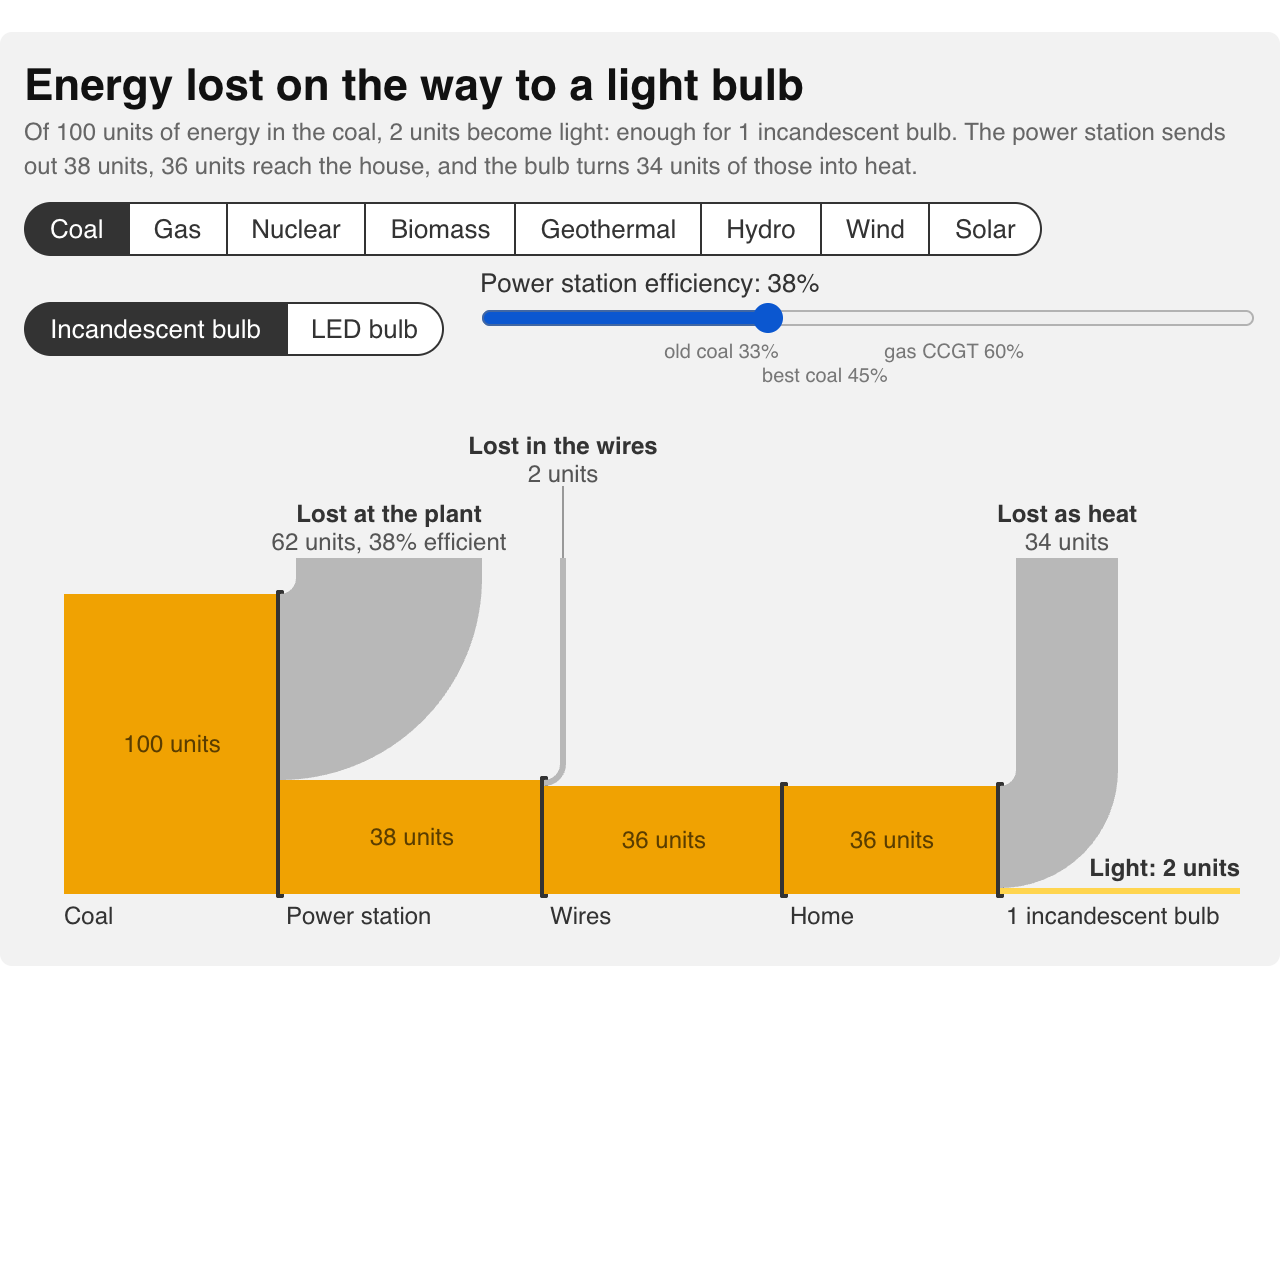
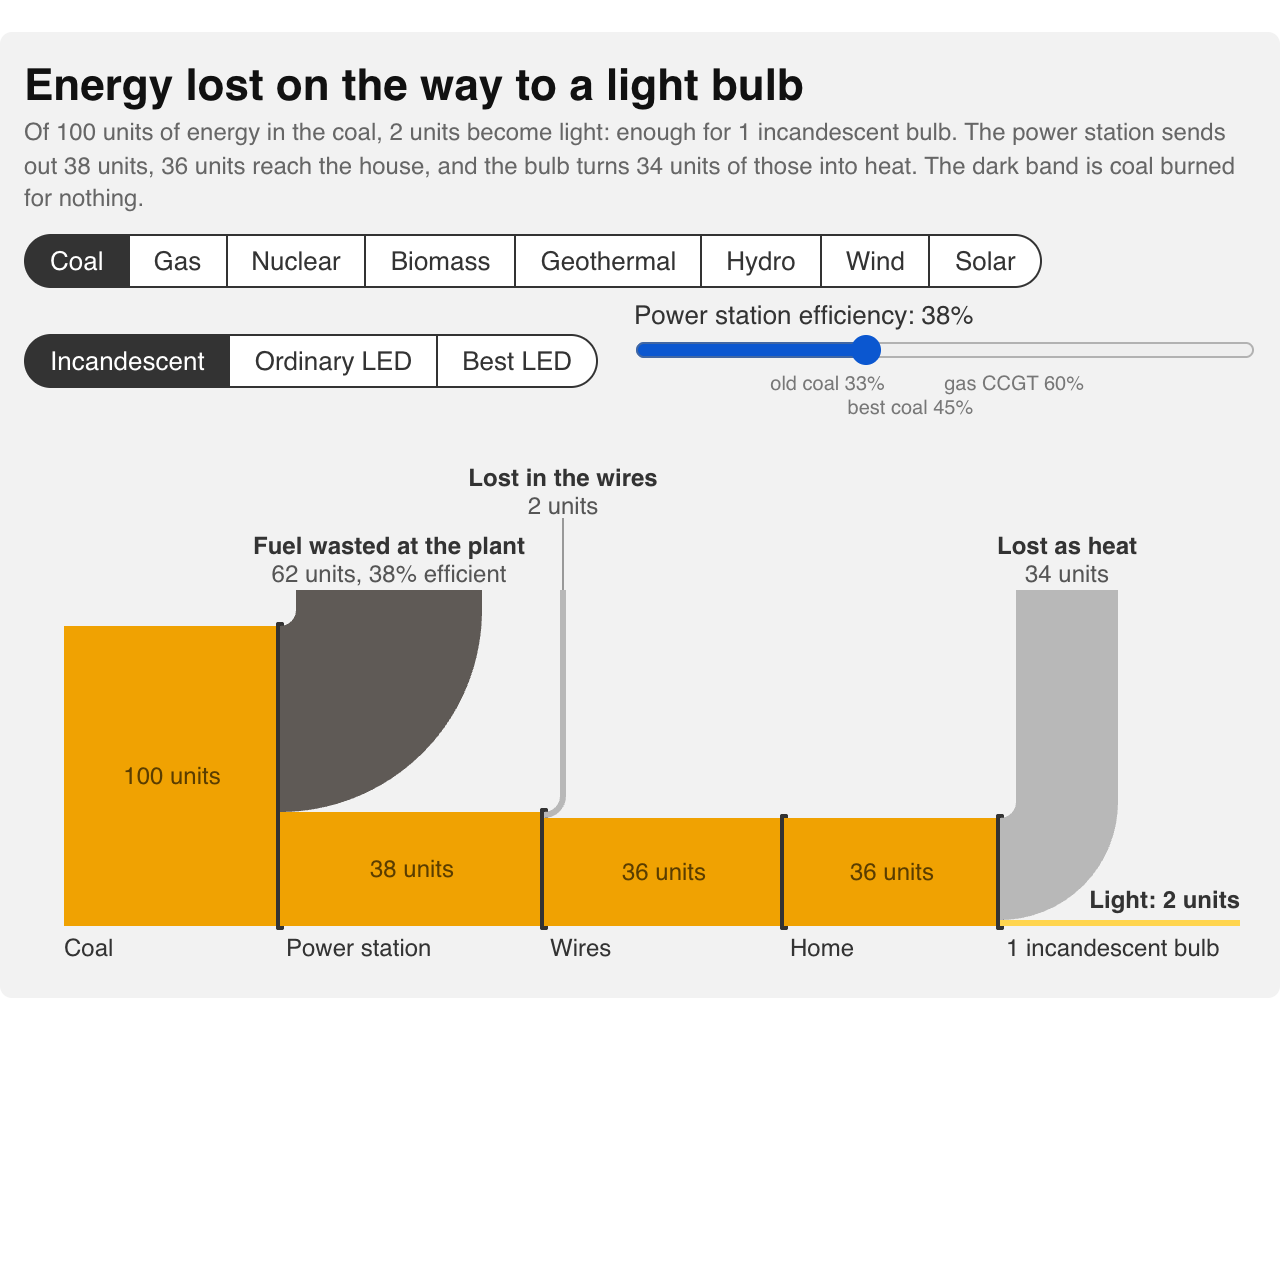
Energy chain: an ordinary LED between the incandescent and the best, and the plant's loss coloured by what it costs
Three bulbs: the incandescent (36 units for 2 of light), an ordinary LED (6, the
course's own figure, about 85 lm/W) and the best LED sold (2.4, about 210 lm/W).
The plant's loss is sooty when it is coal, gas, biomass or nuclear fuel burned for
nothing, and pale with a dashed edge when it is sunlight, wind, water or ground
heat that simply passes by; the wires' and bulbs' heat stay grey. At narrow widths
the loss labels are haloed above the leaders and a station name that would run
into its neighbour drops to a second row.

diff --git a/src/energy-chain/widget.js b/src/energy-chain/widget.js
@@ -1,21 +1,24 @@
 // The energy chain from a lump of coal to lit bulbs, as a Sankey: 100 units of energy enter at
 // the power station, most leave as heat up the cooling tower, a little more warms the wires,
 // and what reaches the house goes into as many bulbs as it can light, which turn most of it
-// into heat too. Two bulbs: an incandescent one, which draws 36 units to make 2 of light, so
-// the 36 delivered light one bulb, and an LED, which draws 2.4 for the same light, so they
-// light fifteen and give 30 units of light; the switch between them animates, since the
-// growing light from the same coal is the point. A slider sets the power station's efficiency, from an old coal plant to
+// into heat too. Three bulbs: an incandescent one, which draws 36 units to make 2 of light, so
+// the 36 delivered light one bulb; an ordinary LED, which draws 6 for the same light, so they
+// light six and give 12 units of light; and the best LED sold, which draws 2.4, so they light
+// fifteen and give 30; the switch between them animates, since the growing light from the same
+// coal is the point. A slider sets the power station's efficiency, from an old coal plant to
 // a gas combined-cycle one, and the first link of the chain moves with it; a row of sources
 // (coal, gas, nuclear, biomass, geothermal, hydro, wind, solar) sets it to each one's typical
 // efficiency and renames the plant, so the same chain can start from wind through a rotor or
-// sunlight on a panel, where what is not captured is not burned. Drawn in the style
+// sunlight on a panel. The plant's loss is coloured by what it costs: sooty when it is fuel
+// burned for nothing, pale and outlined when it is sunlight, wind or water that simply passes
+// by; the wires' and bulbs' heat, electricity wasted, is the grey between. Drawn in the style
 // of the Hickman and climate-funds widgets: a grey plate, a bold title in the corner, dark
 // pill buttons. Static numbers, the course's own; no data file. Self-contained: no d3, no
 // imports.
 //
 // Options: {source: "coal" | "gas" | "nuclear" | "biomass" | "geothermal" | "hydro" | "wind" |
-// "solar"}, {bulb: "incandescent" | "led"}, {efficiency: 0.38} (the plant's, overriding the
-// source's typical figure); {width} caps the figure's width.
+// "solar"}, {bulb: "incandescent" | "led" | "best-led"}, {efficiency: 0.38} (the plant's,
+// overriding the source's typical figure); {width} caps the figure's width.
 
 const CARD_WIDTH = 640;
 const CARD_PAD = 12;
@@ -26,17 +29,25 @@ const ACCENT = "#0b57d0";
 const SOURCE = 100;                 // units of energy in the coal
 const DEFAULT_EFFICIENCY = 0.38;    // the course figure: 62 of 100 lost at the station
 const LINE_LOSS_SHARE = 2 / 38;     // the course figure: 2 of the 38 units sent out
-const FLOW = "#f0a202", LOSS = "#b8b8b8", LIGHT = "#ffd54f";
+const FLOW = "#f0a202", LIGHT = "#ffd54f";
+// The losses, coloured by what they cost: fuel burned for nothing is sooty, electricity wasted
+// in the wires or as a bulb's heat is grey, and energy that a plant does not capture from the
+// sun, wind, water or ground is pale and outlined, since it was never anyone's to lose.
+const LOSS = "#b8b8b8", FUEL_LOSS = "#5f5a56", PASSES_BY = "#e4ecf2", PASSES_BY_EDGE = "#8fa6b8";
 
 // Each bulb gives 2 units of light: the incandescent for 36 units of electricity (the course
-// figure, about 14 lumens per watt), the LED for 2.4, since the most efficient lamps now sold
-// (Philips' ultra-efficient range, about 210 lumens per watt) give fifteen times the light per
-// watt. On that scale a perfect white light would be about 250 lumens per watt, so the LED
-// turns 84% of its electricity into light and the incandescent 6%.
+// figure, about 14 lumens per watt); an ordinary LED for 6 (the course figure too, about 85
+// lumens per watt, six times the incandescent, in the 80–100 of the lamps in most shops); the
+// best LED for 2.4, since the most efficient lamps now sold (Philips' ultra-efficient range,
+// about 210 lumens per watt) give fifteen times the light per watt. On that scale a perfect
+// white light would be about 250 lumens per watt, so the best LED turns 84% of its electricity
+// into light, the ordinary one 33% and the incandescent 6%.
 export const BULBS = [
-  {id: "incandescent", label: "Incandescent bulb", short: "Incandescent", the: "the incandescent bulb", draw: 36, heat: 34,
+  {id: "incandescent", label: "Incandescent", short: "Incandescent", noun: "incandescent bulb", draw: 36, heat: 34,
     title: "Draws 36 units and gives 2 of light; the other 34 are heat (about 14 lumens per watt)"},
-  {id: "led", label: "LED bulb", short: "LED", the: "the LED", draw: 2.4, heat: 0.4,
+  {id: "led", label: "Ordinary LED", short: "Ordinary LED", noun: "ordinary LED bulb", draw: 6, heat: 4,
+    title: "Draws 6 units for the same 2 of light: a typical LED lamp, about 85 lumens per watt, six times the incandescent"},
+  {id: "best-led", label: "Best LED", short: "Best LED", noun: "best LED bulb", draw: 2.4, heat: 0.4,
     title: "Draws 2.4 units for the same 2 of light: the most efficient LED lamps sold, about 210 lumens per watt, fifteen times the incandescent"},
 ];
 // The sources the chain can start from, each with a typical efficiency for turning the energy
@@ -189,8 +200,12 @@ export function createEnergyChainWidget({width = FIGURE_WIDTH, bulb: initialBulb
     svg.setAttribute("width", w.toFixed(0));
     svg.setAttribute("height", svgH.toFixed(0));
     svg.replaceChildren();
-    svgEl("rect", {x: 0, y: 0, width: F(w), height: F(svgH), fill: BACKGROUND}, svg);
+    const plate = svgEl("rect", {x: 0, y: 0, width: F(w), height: F(svgH), fill: BACKGROUND}, svg);
     const g = svgEl("g", {"font-family": "sans-serif"}, svg);
+    // The losses' leaders and labels sit in their own layers above the bands, the labels
+    // haloed in the plate's colour so that a leader passing behind one is hidden by it.
+    const leaderG = svgEl("g", {}, svg);
+    const labelG = svgEl("g", {"font-family": "sans-serif", "paint-order": "stroke", stroke: BACKGROUND, "stroke-width": 3, "stroke-linejoin": "round"}, svg);
 
     const inner = plotR - plotL;
     // Stations along the chain, as fractions of the width: the coal, the power station, the
@@ -209,7 +224,7 @@ export function createEnergyChainWidget({width = FIGURE_WIDTH, bulb: initialBulb
     // the top of the band and turns up to the top edge, where it is named in two lines, in
     // the upper or lower of two rows so that neighbouring labels never meet.
     let lossCount = 0;
-    const peel = (x, incoming, units, fill, name, sub) => {
+    const peel = (x, incoming, units, fill, name, sub, edge) => {
       const row = lossCount++ % 2;   // alternate rows, whether or not the loss is drawn
       if (units <= 0.05) return;
       const t = units * scale;
@@ -222,26 +237,35 @@ export function createEnergyChainWidget({width = FIGURE_WIDTH, bulb: initialBulb
       // comes back clockwise. SVG's sweep flag is 0 for the former, 1 for the latter.
       const d = `M${F(x)},${F(y2)}A${F(r + t)},${F(r + t)},0,0,0,${F(x + r + t)},${F(cy)}` +
         `V${F(topY)}H${F(x + r)}V${F(cy)}A${F(r)},${F(r)},0,0,1,${F(x)},${F(y1)}Z`;
-      svgEl("path", {d, fill}, g);
+      // A loss that is only energy passing by is drawn pale, with a dashed edge so that it still
+      // reads against the plate.
+      svgEl("path", {d, fill, ...(edge ? {stroke: edge, "stroke-width": 1, "stroke-dasharray": "3 2"} : {})}, g);
       // A thin leader from the stem up to the label when the label is in the upper row.
       const lx = x + r + t / 2;
       const base = topY - 4 - row * (2 * lineH + 6);
-      if (row) svgEl("path", {d: `M${F(lx)},${F(topY)}V${F(base + 2)}`, stroke: "#999", "stroke-width": 1}, g);
+      if (row) svgEl("path", {d: `M${F(lx)},${F(topY)}V${F(base + 2)}`, stroke: "#999", "stroke-width": 1}, leaderG);
       const anchor = lx < plotL + 50 ? "start" : lx > plotR - 50 ? "end" : "middle";
       const ax = anchor === "start" ? Math.max(plotL, lx - 10) : anchor === "end" ? Math.min(plotR, lx + 10) : lx;
-      const t1 = svgEl("text", {x: F(ax), y: F(base - lineH), "font-size": labelFont, "text-anchor": anchor, fill: "#333", "font-weight": "bold"}, g);
+      const t1 = svgEl("text", {x: F(ax), y: F(base - lineH), "font-size": labelFont, "text-anchor": anchor, fill: "#333", "font-weight": "bold"}, labelG);
       t1.textContent = name;
-      const t2 = svgEl("text", {x: F(ax), y: F(base), "font-size": labelFont, "text-anchor": anchor, fill: "#555"}, g);
+      const t2 = svgEl("text", {x: F(ax), y: F(base), "font-size": labelFont, "text-anchor": anchor, fill: "#555"}, labelG);
       t2.textContent = sub ? `${formatUnits(units)}, ${sub}` : formatUnits(units);
     };
     // A station: a dark bar across the band where something happens, named beneath, the
     // name starting at the bar so that neighbours do not meet when the figure is narrow.
+    let nameEnd = -Infinity, twoRows = false;   // where the last station's name ended
     const station = (x, units, name, bar = true) => {
       if (bar) svgEl("rect", {x: F(x - 2), y: F(baseY - units * scale - 2), width: 4, height: F(units * scale + 4), fill: "#333", rx: 1}, g);
-      // The name starts at the bar, unless it would run past the right edge.
+      // The name starts at the bar, unless it would run past the right edge, when it ends
+      // there instead; and if it would then run into the name before it, it drops to a
+      // second row.
       ctx.font = `${labelFont}px sans-serif`;
-      const overflows = x + 3 + ctx.measureText(name).width > plotR;
-      const tx = svgEl("text", {x: F(overflows ? plotR : x + 3), y: F(baseY + 15), "font-size": labelFont, fill: "#333", ...(overflows ? {"text-anchor": "end"} : {})}, g);
+      const tw = ctx.measureText(name).width;
+      const overflows = x + 3 + tw > plotR;
+      const x0 = overflows ? plotR - tw : x + 3;
+      const row = x0 < nameEnd + 6 ? 1 : 0;
+      if (row) twoRows = true; else nameEnd = x0 + tw;
+      const tx = svgEl("text", {x: F(overflows ? plotR : x + 3), y: F(baseY + 15 + row * lineH), "font-size": labelFont, fill: "#333", ...(overflows ? {"text-anchor": "end"} : {})}, g);
       tx.textContent = name;
     };
 
@@ -250,7 +274,10 @@ export function createEnergyChainWidget({width = FIGURE_WIDTH, bulb: initialBulb
     band(xs.source, xs.station, SOURCE, FLOW);
     station(xs.source - 3, SOURCE, src.label, false);
     station(xs.station, SOURCE, src.station);
-    peel(xs.station, SOURCE, c.generationLoss, LOSS, src.burns ? "Lost at the plant" : "Not captured", `${Math.round(efficiency * 100)}% efficient`);
+    // What the plant does not turn into electricity: fuel burned for nothing, drawn sooty, or
+    // sun, wind, water or ground heat that passes by, drawn pale.
+    if (src.burns) peel(xs.station, SOURCE, c.generationLoss, FUEL_LOSS, "Fuel wasted at the plant", `${Math.round(efficiency * 100)}% efficient`);
+    else peel(xs.station, SOURCE, c.generationLoss, PASSES_BY, "Passes by, not captured", `${Math.round(efficiency * 100)}% efficient`, PASSES_BY_EDGE);
     band(xs.station, xs.wires, c.toGrid, FLOW);
     station(xs.wires, c.toGrid, "Wires");
     peel(xs.wires, c.toGrid, c.lineLoss, LOSS, "Lost in the wires");
@@ -284,6 +311,11 @@ export function createEnergyChainWidget({width = FIGURE_WIDTH, bulb: initialBulb
       l2.textContent = formatUnits(c.light);
     }
 
+    // Room for the second row of station names, when one was needed.
+    const h = svgH + (twoRows ? lineH : 0);
+    svg.setAttribute("height", h.toFixed(0));
+    plate.setAttribute("height", F(h));
+
     // The numbers on the main band where there is room.
     for (const [x0, x1, units] of [[xs.source, xs.station, SOURCE], [xs.station, xs.wires, c.toGrid], [xs.wires, xs.home, c.delivered], [xs.home, xs.bulb, c.delivered]]) {
       if (units * scale < 14) continue;
@@ -299,7 +331,7 @@ export function createEnergyChainWidget({width = FIGURE_WIDTH, bulb: initialBulb
     const plural = f.bulbs >= 1.05;
     subheading.textContent = `Of ${SOURCE} units of energy ${what}, ${formatUnits(f.light)} become light: enough for ${formatBulbs(f.bulbs, b)}. ` +
       `The ${src.station.toLowerCase()} sends out ${formatUnits(f.toGrid)}, ${formatUnits(f.delivered)} reach the house, and the bulb${plural ? "s" : ""} turn${plural ? "" : "s"} ${formatUnits(f.heat)} of those into heat.` +
-      (src.burns ? "" : " Nothing is burned here: what the plant does not capture simply passes by.");
+      (src.burns ? ` The dark band is ${src.id === "nuclear" ? "fuel" : src.label.toLowerCase()} burned for nothing.` : " Nothing is burned here: the pale band is energy that simply passes by.");
     svg.setAttribute("aria-label", `Sankey diagram of the energy chain from ${src.label.toLowerCase()} to light. ${subheading.textContent}`);
   }
 
@@ -412,11 +444,11 @@ function formatUnits(v) {
   const r = Math.round(v * 10) / 10;
   return `${Number.isInteger(r) ? r : r.toFixed(1)} unit${r === 1 ? "" : "s"}`;
 }
-// "6 LED bulbs", "1 incandescent bulb", "14.2 LED bulbs".
+// "6 ordinary LED bulbs", "1 incandescent bulb", "14.2 best LED bulbs".
 function formatBulbs(n, bulb) {
   const r = Math.round(n * 10) / 10;
   const count = Number.isInteger(r) ? `${r}` : r.toFixed(1);
-  return `${count} ${bulb.short === "LED" ? "LED" : "incandescent"} bulb${r === 1 ? "" : "s"}`;
+  return `${count} ${bulb.noun}${r === 1 ? "" : "s"}`;
 }
 function clamp(v, lo, hi) {
   return Math.max(lo, Math.min(hi, v));

diff --git a/src/energy-chain/index.md b/src/energy-chain/index.md
@@ -1,6 +1,6 @@
 # From plant to a light bulb
 
-Of 100 units of energy in a lump of coal, how many end up as light? The chain is drawn as a Sankey: the energy enters at the power station on the left and most of it leaves up the cooling tower as heat; a little more warms the wires on the way; what reaches the house goes into as many bulbs as it can light, and an incandescent bulb turns nearly all of that into heat too, leaving 2 units of light from the one bulb the 36 units can run. Switch to the **LED**: the best lamps now sold make the same light from 2.4 units instead of 36, so the same 36 units light fifteen of them and give 30 units of light. Pick another **source** and the plant takes that source's typical efficiency, which the slider then moves: a gas turbine keeps more than half, a reactor a third, a geothermal plant a sixth; a hydro turbine captures nine tenths of the water's energy, a wind turbine a little under half of the wind through its rotor, a solar panel a fifth of the sunlight that falls on it.
+Of 100 units of energy in a lump of coal, how many end up as light? The chain is drawn as a Sankey: the energy enters at the power station on the left and most of it leaves up the cooling tower as heat; a little more warms the wires on the way; what reaches the house goes into as many bulbs as it can light, and an incandescent bulb turns nearly all of that into heat too, leaving 2 units of light from the one bulb the 36 units can run. Switch to an **ordinary LED**: it makes the same light from 6 units, so the 36 light six of them and give 12 units of light; the **best LED** sold makes it from 2.4, so they light fifteen and give 30. Pick another **source** and the plant takes that source's typical efficiency, which the slider then moves: a gas turbine keeps more than half, a reactor a third, a geothermal plant a sixth; a hydro turbine captures nine tenths of the water's energy, a wind turbine a little under half of the wind through its rotor, a solar panel a fifth of the sunlight that falls on it. The plant's loss changes colour with the source: dark when it is coal, gas, biomass or nuclear fuel burned for nothing, which cannot be had back or used for anything else, pale and outlined when it is sunlight, wind, water or the ground's heat that the plant simply did not catch, which costs nothing and would have gone by anyway. The grey of the wires and the bulbs is electricity wasted, whichever source made it.
 
 ```js
 import {createEnergyChainWidget} from "./widget.js";
@@ -10,7 +10,7 @@ import {createEnergyChainWidget} from "./widget.js";
 const energy = view(createEnergyChainWidget());
 ```
 
-The coal numbers are the course's own illustration: a station that sends out 38 of 100 units, wires that lose 2 of those, and an incandescent bulb that draws 36 units to give 2 of light, about 14 lumens per watt. The LED is the most efficient kind now sold, Philips' ultra-efficient lamps at about 210 lumens per watt (see [Wikipedia's LED lamp article](https://en.wikipedia.org/wiki/LED_lamp)), fifteen times the incandescent, so it draws 2.4 units for the same 2 of light; an ordinary LED lamp, at 80 to 100 lumens per watt, would sit between the two. On this scale a perfect white light would be about 250 lumens per watt, so the LED turns 84% of its electricity into light and the incandescent 6%. Whatever reaches the house is spent on bulbs, as many as it will run (a fraction of one, when there is not enough for one), so the losses are the plant's, the wires' and the bulbs' heat, and the light is what is left. Moving the slider scales the plant's loss and, with it, the wires' share. The other sources' efficiencies are typical figures, rounded: 58% for a combined-cycle gas turbine (35–40% for open cycle), 33% for a nuclear reactor's steam cycle, 30% for a biomass boiler, 15% for a geothermal plant, whose steam is cool, 90% for a hydro turbine, 45% for a wind turbine (the energy counted is the wind through the rotor, of which no turbine can take more than Betz's 59%) and 20% for a solar panel (the sunlight falling on it). For the last four nothing is burned, so what the plant does not capture is not wasted fuel, just energy that passes by. None of this counts the energy spent mining, processing and transporting a fuel, or building the plant.
+The coal numbers are the course's own illustration: a station that sends out 38 of 100 units, wires that lose 2 of those, and an incandescent bulb that draws 36 units to give 2 of light, about 14 lumens per watt. The ordinary LED is the course's figure too, 6 units for the same 2 of light, about 85 lumens per watt and six times the incandescent, which is where the lamps in most shops sit, at 80 to 100 lumens per watt. The best LED is the most efficient kind now sold, Philips' ultra-efficient lamps at about 210 lumens per watt (see [Wikipedia's LED lamp article](https://en.wikipedia.org/wiki/LED_lamp)), fifteen times the incandescent, so it draws 2.4 units. On this scale a perfect white light would be about 250 lumens per watt, so the best LED turns 84% of its electricity into light, the ordinary one a third and the incandescent 6%. Whatever reaches the house is spent on bulbs, as many as it will run (a fraction of one, when there is not enough for one), so the losses are the plant's, the wires' and the bulbs' heat, and the light is what is left. Moving the slider scales the plant's loss and, with it, the wires' share. The other sources' efficiencies are typical figures, rounded: 58% for a combined-cycle gas turbine (35–40% for open cycle), 33% for a nuclear reactor's steam cycle, 30% for a biomass boiler, 15% for a geothermal plant, whose steam is cool, 90% for a hydro turbine, 45% for a wind turbine (the energy counted is the wind through the rotor, of which no turbine can take more than Betz's 59%) and 20% for a solar panel (the sunlight falling on it). For the last four nothing is burned, so what the plant does not capture is not wasted fuel, just energy that passes by. None of this counts the energy spent mining, processing and transporting a fuel, or building the plant.
 
 ## Embed this widget
 
@@ -25,14 +25,14 @@ display(embedSnippets({
   title: "From plant to a light bulb",
   note: "The figure fills its column up to 640&nbsp;px wide and reflows down to about 320&nbsp;px; allow about 440&nbsp;px of height at phone width. " +
     "The embed page is preset through its URL: <code>?source=wind</code> (coal, gas, nuclear, biomass, geothermal, hydro, wind, solar), " +
-    "<code>?bulb=led</code> or <code>incandescent</code>, and <code>?efficiency=45</code> (per cent, overriding the source's typical figure).",
+    "<code>?bulb=led</code> (an ordinary LED), <code>best-led</code> or <code>incandescent</code>, and <code>?efficiency=45</code> (per cent, overriding the source's typical figure).",
   script: `<div id="energy-chain"></div>
 
 <script type="module">
   import {createEnergyChainWidget}
     from "${libUrl("energy-chain/widget.js")}";
 
-  // Options: {source: "wind"} (coal, gas, nuclear, biomass, geothermal, hydro, wind, solar), {bulb: "led" | "incandescent"}, {efficiency: 0.45}.
+  // Options: {source: "wind"} (coal, gas, nuclear, biomass, geothermal, hydro, wind, solar), {bulb: "incandescent" | "led" | "best-led"}, {efficiency: 0.45}.
   document.getElementById("energy-chain")
     .appendChild(createEnergyChainWidget());
 <\/script>`

diff --git a/src/index.md b/src/index.md
@@ -109,7 +109,7 @@ Small, self-contained interactive figures for teaching climate science. Each wid
   </a>
   <a class="card" href="./energy-chain/">
     <h2>From plant to a light bulb</h2>
-    <img class="thumb" src="./assets/thumbnails/energy-chain.png" alt="A Sankey diagram running left to right: a wide orange band of 100 units of coal energy narrows at each station as grey bands of loss peel off upwards, 62 at the power station, 2 in the wires and 34 as heat in the bulb, leaving a thin yellow band of 2 units of light at the right; segmented buttons choose the source and switch between an incandescent bulb and an LED, which lights fifteen bulbs from the same coal, and a slider sets the plant's efficiency">
+    <img class="thumb" src="./assets/thumbnails/energy-chain.png" alt="A Sankey diagram running left to right: a wide orange band of 100 units of coal energy narrows at each station as bands of loss peel off upwards, 62 at the power station in sooty dark grey for fuel burned for nothing, 2 in the wires and 34 as heat in the bulb in grey, leaving a thin yellow band of 2 units of light at the right; segmented buttons choose the source, whose uncaptured sunlight, wind or water is drawn pale instead, and switch between an incandescent bulb, an ordinary LED that lights six bulbs from the same coal and the best LED that lights fifteen, and a slider sets the plant's efficiency">
   </a>
   <a class="card" href="./coriolis-sphere/">
     <h2>The Coriolis effect on the Earth</h2>

diff --git a/src/energy-chain/embed.md b/src/energy-chain/embed.md
@@ -29,8 +29,8 @@ body {
 ```js
 import {createEnergyChainWidget} from "./widget.js";
 
-// Presets: ?source=coal, gas, nuclear, biomass, geothermal, hydro, wind or solar; ?bulb=led or
-// incandescent; ?efficiency=45 (the plant's, per cent, overriding the source's typical figure).
+// Presets: ?source=coal, gas, nuclear, biomass, geothermal, hydro, wind or solar; ?bulb=incandescent,
+// led (an ordinary one) or best-led; ?efficiency=45 (the plant's, per cent, overriding the source's typical figure).
 const params = new URLSearchParams(location.search);
 const source = params.get("source") ?? undefined;
 const bulb = params.get("bulb") ?? undefined;
